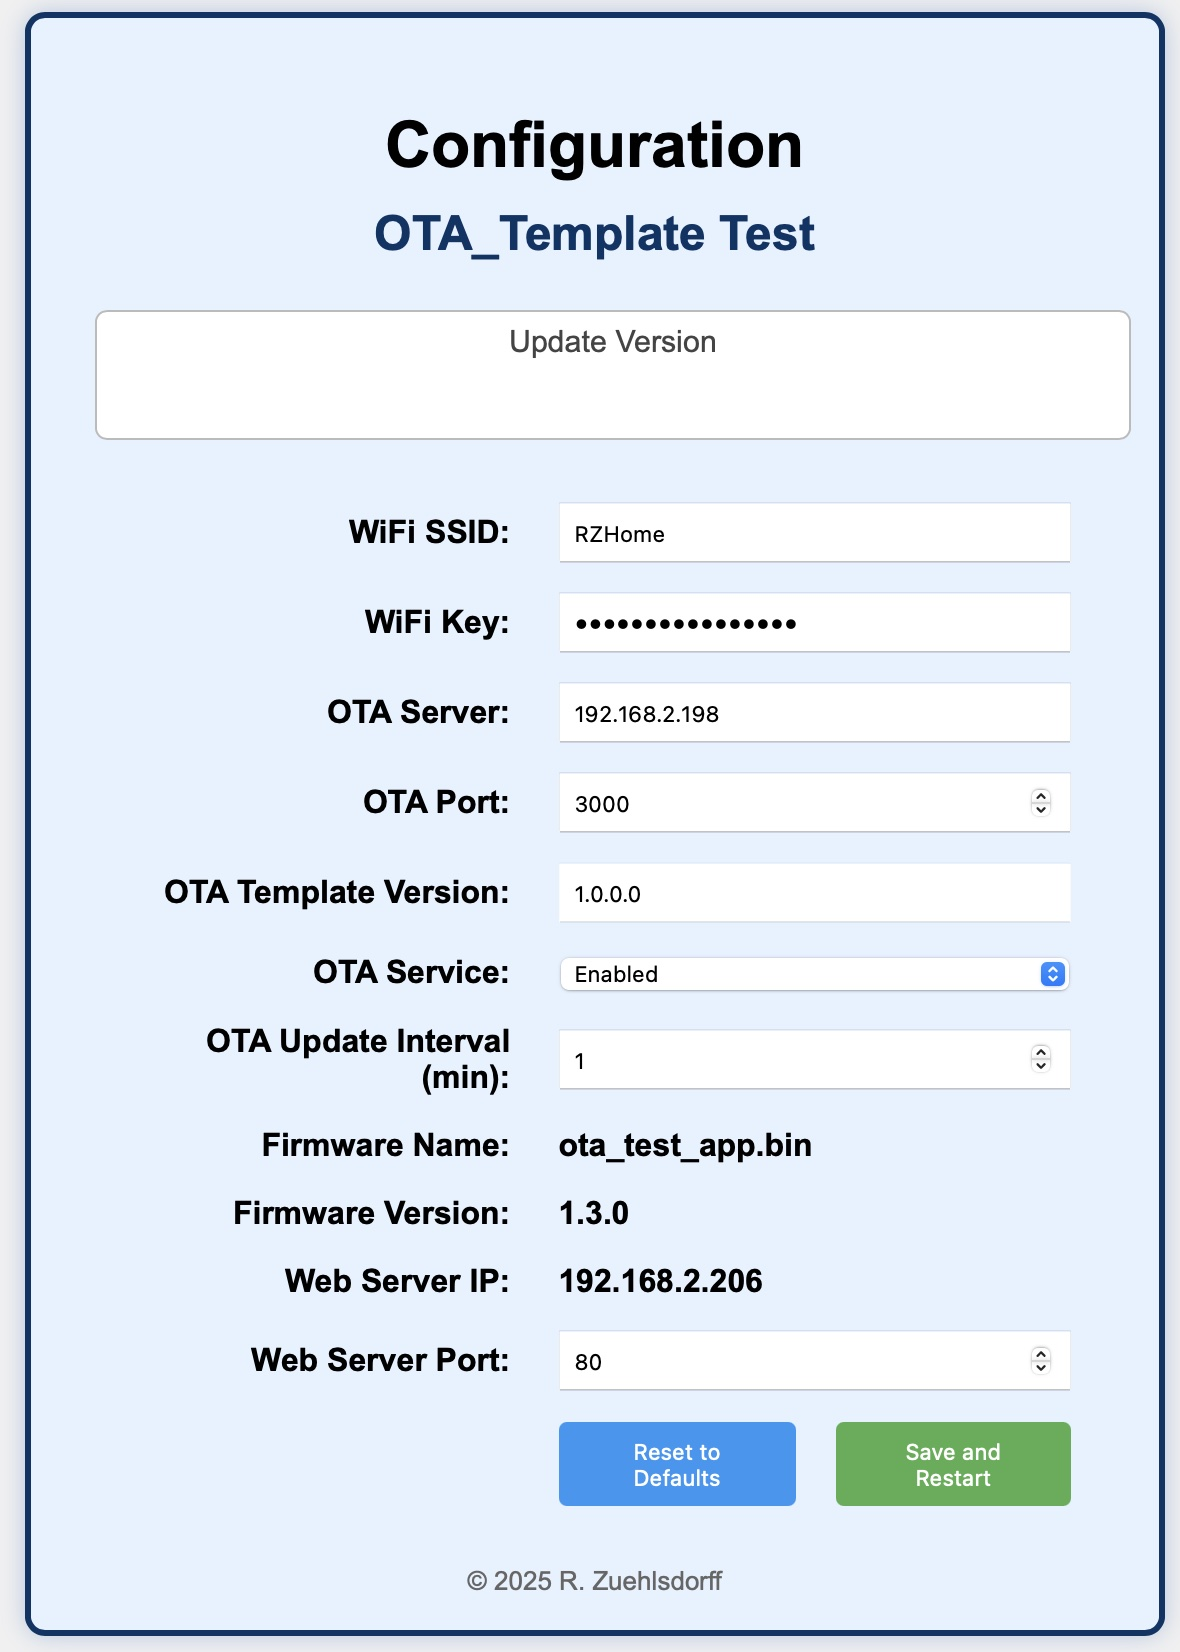
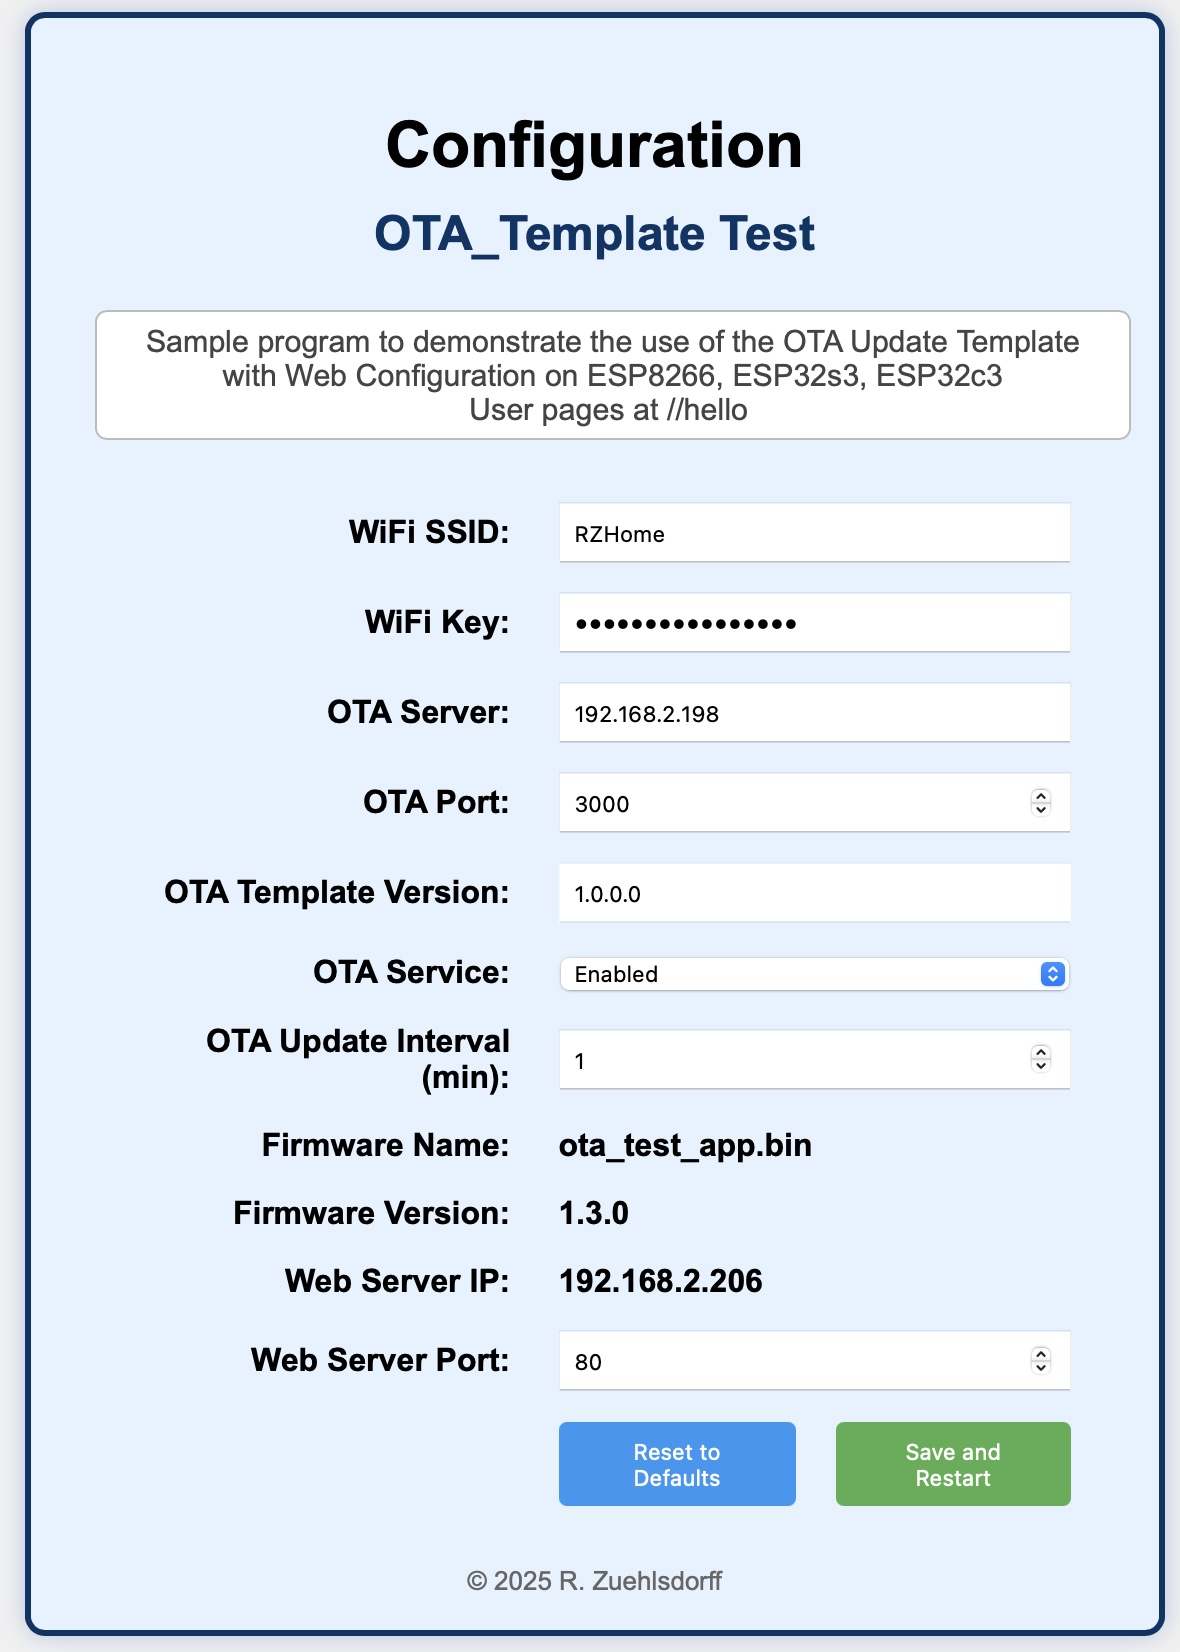
new jpg

Changed region(s): [[0.122, 0.1852, 0.9153, 0.2778]]

diff --git a/src/config.h b/src/config.h
@@ -60,8 +60,8 @@
 #define FIRMWARE_NAME "ota_test_app.bin"   // Firmware binary file name on the OTA server
 #define FIRMWARE_VERSION  "1.1.0"      // Current firmware version of this build
 #define WEB_SERVER_PORT 80             // Port number for the web server to serve the configuration page
-// #define DESCRIPTION   u8"Sample program to demonstrate the use of the OTA Update Template\n"\
-//                         "with Web Configuration on ESP8266, ESP32s3, ESP32c3\n"\ 
-//                         "User pages at //hello "
-#define DESCRIPTION u8"Initial Version"
+#define DESCRIPTION   u8"Sample program to demonstrate the use of the OTA Update Template\n"\
+                        "with Web Configuration on ESP8266, ESP32s3, ESP32c3\n"\ 
+                        "User pages at //hello "
+// #define DESCRIPTION u8"Initial Version"
 #endif // CONFIG_H
